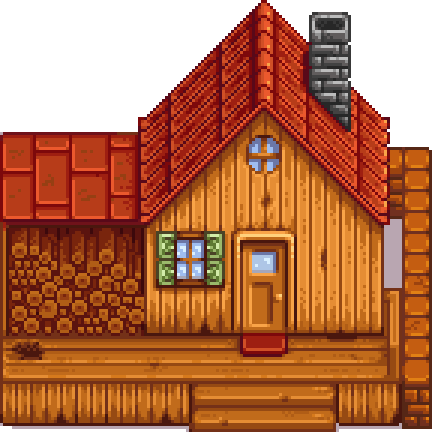
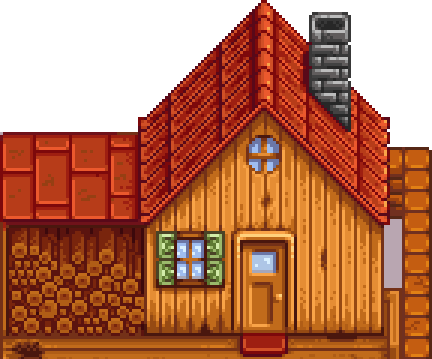
FEAT: add tiles

diff --git a/src/gui/CreatePlayerPanel.java b/src/gui/CreatePlayerPanel.java
@@ -17,10 +17,10 @@ public class CreatePlayerPanel extends JPanel {
         bgLabel.setBounds(0, 0, 800, 600);
 
         // Title
-        JLabel titleLabel = new JLabel("Create Your Character");
-        titleLabel.setFont(new Font("Arial", Font.BOLD, 24));
-        titleLabel.setForeground(Color.BLACK);
-        titleLabel.setBounds(250, 50, 300, 30);
+        JLabel titleLabel = new JLabel((new ImageIcon("res/menu/cyc.png")));
+        //titleLabel.setFont(new Font("Arial", Font.BOLD, 24));
+        //titleLabel.setForeground(Color.BLACK);
+        titleLabel.setBounds(150, 50, 500, 63);
 
         // Name input
         JLabel nameLabel = new JLabel("Name:");
@@ -53,8 +53,12 @@ public class CreatePlayerPanel extends JPanel {
         farmField.setBounds(300, 220, 200, 30);
 
         // Start button
-        JButton startButton = new JButton("Start Game");
-        startButton.setBounds(300, 280, 200, 40);
+        JButton startButton = new JButton(new ImageIcon("res/menu/start.png"));
+        startButton.setBounds(300, 300, 200, 70);
+        startButton.setBorderPainted(false);
+        startButton.setContentAreaFilled(false);
+        startButton.setFocusPainted(false);
+        startButton.setOpaque(false);
 
         startButton.addActionListener(e -> {
             String name = nameField.getText();

diff --git a/src/tile/TileManager.java b/src/tile/TileManager.java
@@ -52,7 +52,7 @@ public class TileManager {
             tile[0].collision = false;
 
             tile[1] = new Tile();
-            tile[1].image = ImageIO.read(getClass().getResourceAsStream("/res/tiles/jamoer.jpeg"));
+            tile[1].image = ImageIO.read(getClass().getResourceAsStream("/res/tiles/tileijo.png"));
             tile[1].collision = true;
 
             tile[2] = new Tile();
@@ -153,7 +153,7 @@ public class TileManager {
     }
     private void loadHouseImage() {
         try {
-            houseImage = ImageIO.read(getClass().getResourceAsStream("/res/tiles/jamoer.jpeg"));
+            houseImage = ImageIO.read(getClass().getResourceAsStream("/res/tiles/House3.png"));
         } catch (IOException e) {
             e.printStackTrace();
         }
